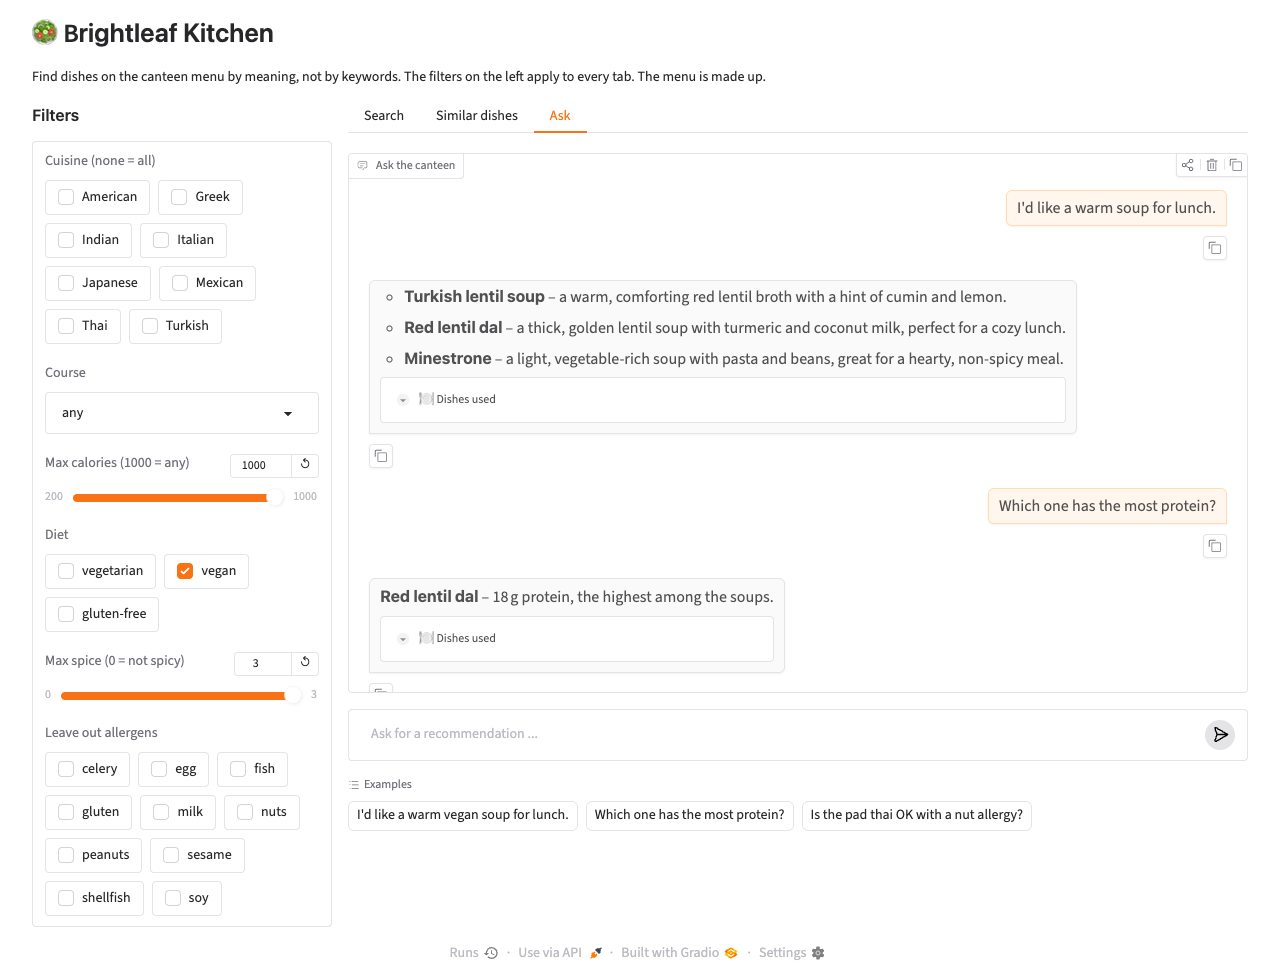
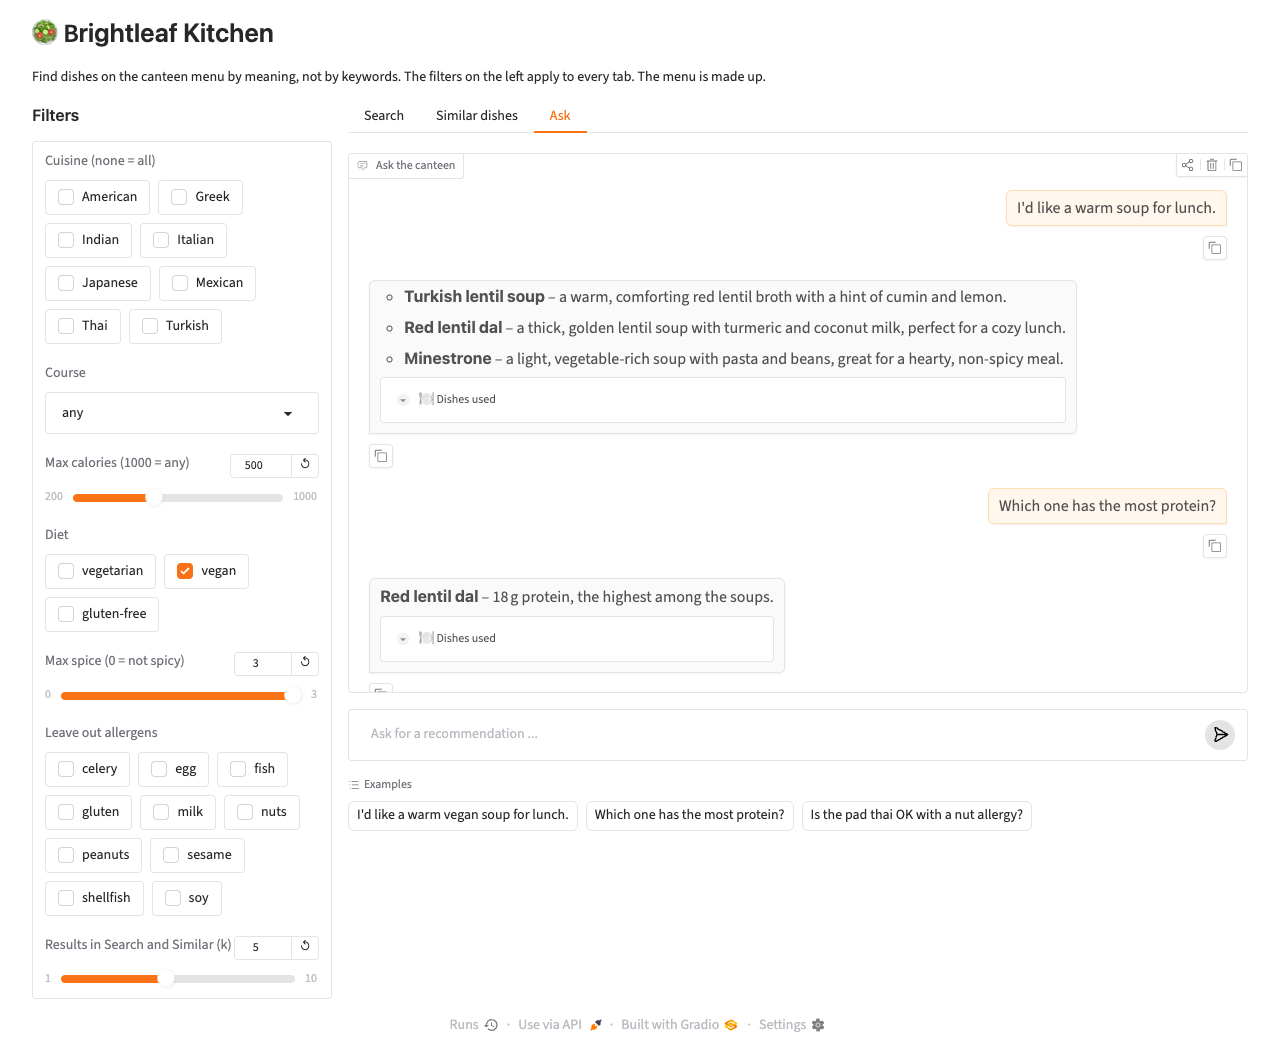
Add a result count and calories left to the food recommender

diff --git a/03-vector-databases/food-recommender/app.py b/03-vector-databases/food-recommender/app.py
@@ -47,7 +47,8 @@ def make_filters(cuisines, course, max_calories, diet, max_spice, avoid) -> Filt
     )
 
 
-def results_table(matches: list[Match]) -> str:
+def results_table(matches: list[Match], max_calories: int | None = None) -> str:
+    """A table of dishes. With a calorie limit, it also shows how much of the budget is left."""
     if not matches:
         return "*No dish matches. Try other words or fewer filters.*"
     rows = [
@@ -56,32 +57,38 @@ def results_table(matches: list[Match]) -> str:
     ]
     for match in matches:
         dish = match.dish
+        kcal = str(dish["calories"])
+        if max_calories is not None:
+            kcal += f" ({max_calories - dish['calories']} left)"
         rows.append(
             f"| {match.similarity:.0%} | **{dish['name']}** | {dish['cuisine']} | {dish['course']} "
-            f"| {dish['calories']} | {', '.join(diet_labels(dish)) or '-'} "
+            f"| {kcal} | {', '.join(diet_labels(dish)) or '-'} "
             f"| {'🌶' * dish['spice'] or '-'} | {', '.join(dish['allergens']) or '-'} |"
         )
     return "\n".join(rows)
 
 
-def search(query: str, *filter_values) -> str:
+def search(query: str, k: float, *filter_values) -> str:
     query = (query or "").strip()
     if not query:
         return "*Describe what you feel like eating.*"
+    filters = make_filters(*filter_values)
     try:
-        return results_table(get_recommender().search(query, make_filters(*filter_values)))
+        matches = get_recommender().search(query, filters, k=int(k))
     except OLLAMA_ERRORS as error:
         return explain_ollama_error(error)
+    return results_table(matches, filters.max_calories)
 
 
-def similar(dish_name: str | None, *filter_values) -> str:
+def similar(dish_name: str | None, k: float, *filter_values) -> str:
     if not dish_name:
         return "*Pick a dish to see similar ones.*"
+    filters = make_filters(*filter_values)
     try:
-        matches = get_recommender().similar(DISH_IDS[dish_name], make_filters(*filter_values))
+        matches = get_recommender().similar(DISH_IDS[dish_name], filters, k=int(k))
     except OLLAMA_ERRORS as error:
         return explain_ollama_error(error)
-    return results_table(matches)
+    return results_table(matches, filters.max_calories)
 
 
 def text_of(content) -> str:
@@ -157,6 +164,7 @@ def build_app() -> gr.Blocks:
                 diet = gr.CheckboxGroup(["vegetarian", "vegan", "gluten-free"], label="Diet")
                 max_spice = gr.Slider(0, 3, value=3, step=1, label="Max spice (0 = not spicy)")
                 avoid = gr.CheckboxGroup(MENU["allergens"], label="Leave out allergens")
+                k = gr.Slider(1, 10, value=5, step=1, label="Results in Search and Similar (k)")
             with gr.Column(scale=3):
                 with gr.Tab("Search"):
                     query = gr.Textbox(
@@ -189,11 +197,11 @@ def build_app() -> gr.Blocks:
                     )
 
         filters = [cuisines, course, max_calories, diet, max_spice, avoid]
-        query.submit(search, [query, *filters], results)
-        dish.change(similar, [dish, *filters], similar_results)
-        for component in filters:  # filters update the search and the similar dishes at once
-            component.change(search, [query, *filters], results)
-            component.change(similar, [dish, *filters], similar_results)
+        query.submit(search, [query, k, *filters], results)
+        dish.change(similar, [dish, k, *filters], similar_results)
+        for component in [k, *filters]:  # update the search and the similar dishes at once
+            component.change(search, [query, k, *filters], results)
+            component.change(similar, [dish, k, *filters], similar_results)
         question.submit(respond, [question, chatbot, *filters], [chatbot, question])
     return app
 

diff --git a/03-vector-databases/food-recommender/tests/test_app.py b/03-vector-databases/food-recommender/tests/test_app.py
@@ -14,12 +14,12 @@ class FakeRecommender:
     def __init__(self):
         self.seen = {}
 
-    def search(self, query, filters):
-        self.seen["search"] = (query, filters)
+    def search(self, query, filters, k=5):
+        self.seen["search"] = (query, filters, k)
         return [Match(DAL, 0.81)]
 
-    def similar(self, dish_id, filters):
-        self.seen["similar"] = (dish_id, filters)
+    def similar(self, dish_id, filters, k=5):
+        self.seen["similar"] = (dish_id, filters, k)
         return [Match(DAL, 0.75)]
 
     def ask(self, question, history, filters):
@@ -53,14 +53,21 @@ def test_top_slider_values_mean_no_limit():
 
 
 def test_search_shows_a_table(fake):
-    table = app.search("lentil soup", *NO_FILTERS)
+    table = app.search("lentil soup", 3, *NO_FILTERS)
 
     assert "**Red lentil dal**" in table and "81%" in table
-    assert fake.seen["search"] == ("lentil soup", Filters())
+    assert "left)" not in table  # no calorie limit, no budget
+    assert fake.seen["search"] == ("lentil soup", Filters(), 3)
+
+
+def test_a_calorie_limit_shows_the_calories_left(fake):
+    table = app.search("lentil soup", 5, [], "any", 400, [], 3, [])
+
+    assert "| 340 (60 left) |" in table  # the dal has 340 kcal: 60 left of 400
 
 
 def test_similar_looks_up_the_dish_id(fake):
-    app.similar("Red lentil dal", *NO_FILTERS)
+    app.similar("Red lentil dal", 5, *NO_FILTERS)
 
     assert fake.seen["similar"][0] == DAL["id"]
 
@@ -88,9 +95,9 @@ def test_respond_streams_then_adds_the_dishes_box(fake):
 
 def test_missing_model_says_what_to_pull(monkeypatch):
     class MissingModel:
-        def search(self, query, filters):
+        def search(self, query, filters, k=5):
             raise ollama.ResponseError("model 'nomic-embed-text' not found", 404)
 
     monkeypatch.setattr(app, "get_recommender", MissingModel)
 
-    assert "`ollama pull nomic-embed-text`" in app.search("lentil soup", *NO_FILTERS)
+    assert "`ollama pull nomic-embed-text`" in app.search("lentil soup", 5, *NO_FILTERS)

diff --git a/03-vector-databases/food-recommender/README.md b/03-vector-databases/food-recommender/README.md
@@ -5,16 +5,19 @@ Stage 2. This app searches its menu by meaning ("something fresh and crunchy"), 
 cuisine, course, calories, diet, spice, and allergens, finds similar dishes, and recommends
 dishes in a chat. The menu is made up.
 
-![Search with the vegan filter](assets/search.png)
+![Search with the vegan filter and a 500 kcal limit](assets/search.png)
 
 | Tab | You | The app |
 | --- | --- | --- |
-| **Search** | describe what you feel like eating | shows the closest dishes that pass the filters, with a match score |
-| **Similar dishes** | pick a dish | shows the dishes whose vectors are closest to that dish's own vector |
+| **Search** | describe what you feel like eating | shows the k closest dishes that pass the filters, with a match score |
+| **Similar dishes** | pick a dish | shows the k dishes whose vectors are closest to that dish's own vector |
 | **Ask** | chat | rewrites follow-up questions and recommends dishes from the matching ones only |
 
-The filters on the left apply to all three tabs. Here the vegan filter is on, so "a warm soup"
-only finds vegan soups, and the follow-up keeps that context:
+The filters on the left apply to all three tabs; the k slider sets how many results Search and
+Similar dishes show (Ask always uses the 5 closest). With a calorie limit, the kcal column also
+shows how much of the limit is left, so "420 (80 left)" fits a 500 kcal budget. Here the vegan
+filter and a 500 kcal limit are on, so "a warm soup" only finds vegan soups, and the follow-up
+keeps that context:
 
 ![Chat with the vegan filter](assets/ask.png)
 
@@ -29,8 +32,8 @@ only finds vegan soups, and the follow-up keeps that context:
    values. Numbers stay out of the embedding: a search cannot tell 380 from 830 calories, a
    filter can.
 2. **Embedded once.** The dishes go into a Chroma collection saved in `chroma_db/`. The
-   collection stores a fingerprint of the menu and the embedding model, so the app embeds the
-   menu again only when one of them changes.
+   collection stores a fingerprint of the menu (dishes and allergen list) and the embedding
+   model, so the app embeds the menu again only when one of them changes.
 3. **One filter for every tab.** The filter panel becomes a Chroma `where` filter:
 
    ```python
@@ -98,6 +101,7 @@ uv run pytest 03-vector-databases/food-recommender
 
 The tests check that the menu data is consistent (a vegan dish is also vegetarian, "gluten-free"
 matches the allergens), that filters turn into the right `where`, that searches only return
-dishes that pass the filters, that the menu is embedded once and again after a change, that a
-search with no matching dish skips the model, and that follow-ups search the rewrite and the
-previous message.
+dishes that pass the filters, that the menu is embedded once and again after a change (also a
+new allergen), that a calorie limit shows the calories left, that a search with no matching dish
+skips the model, that follow-ups search the rewrite and the previous message, and that a missing
+Ollama model gets a clear message.
